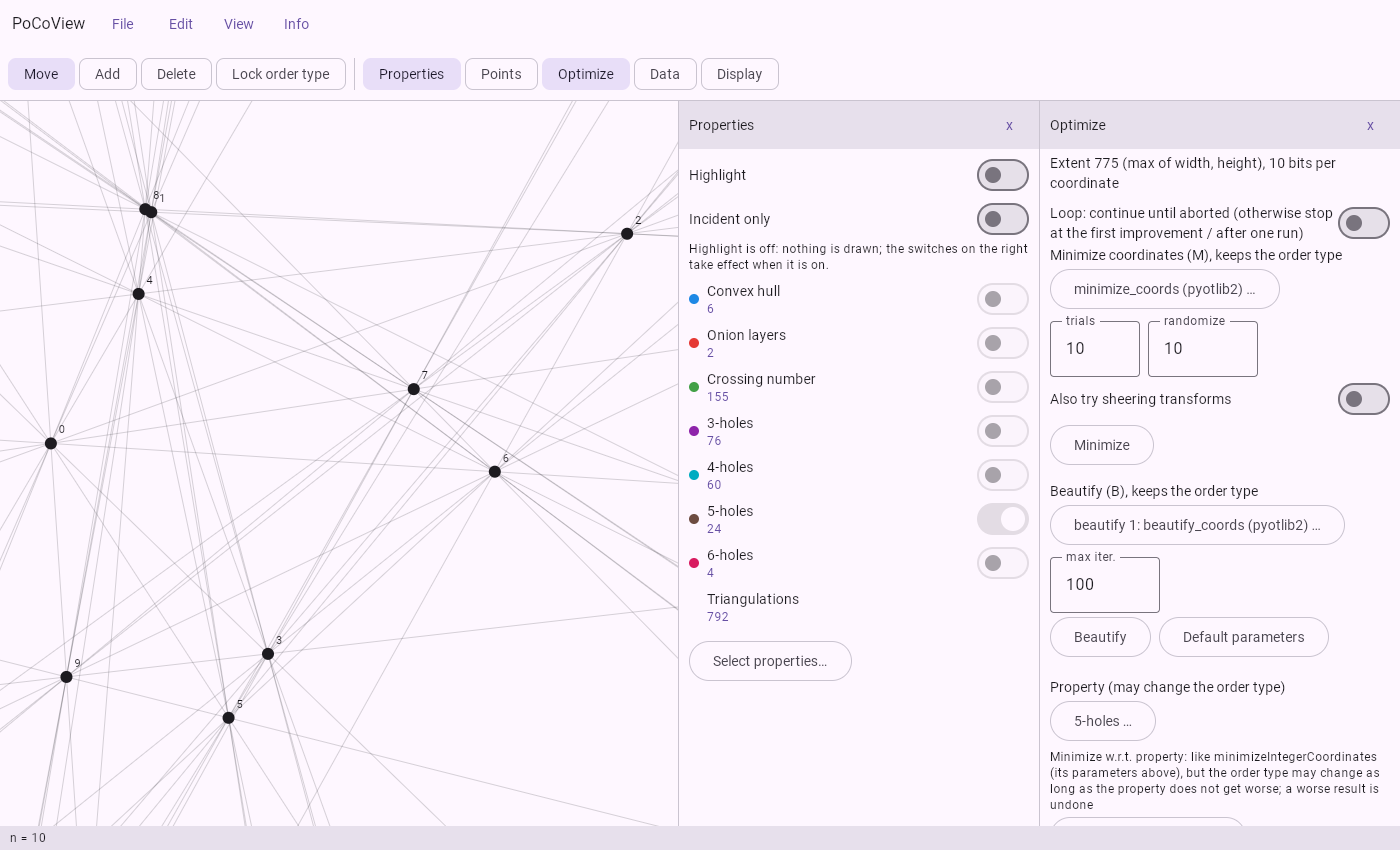
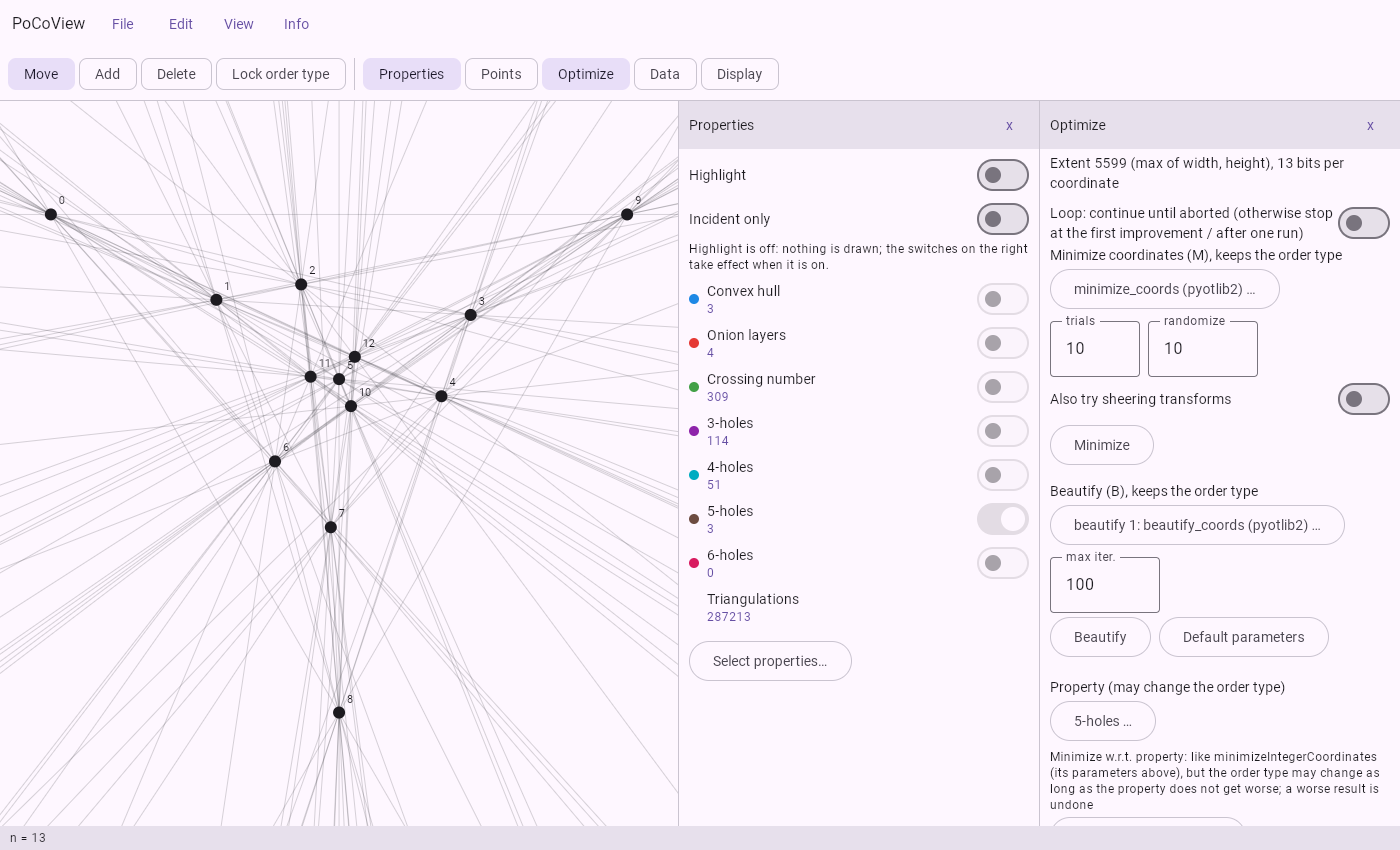
Start with Manfred's 13-point set

diff --git a/composeApp/src/commonMain/kotlin/org/bytefred/pocoview/ui/AppState.kt b/composeApp/src/commonMain/kotlin/org/bytefred/pocoview/ui/AppState.kt
@@ -291,7 +291,7 @@ class AppState(private val scope: CoroutineScope = CoroutineScope(SupervisorJob(
     private var dragUndoPending = false
 
     init {
-        setPoints(randomPointSet(10, 1000), recordUndo = false)
+        setPoints(START_POINTS, recordUndo = false)
         sets = listOf(points)
         requestFit()
     }
@@ -820,6 +820,12 @@ class AppState(private val scope: CoroutineScope = CoroutineScope(SupervisorJob(
         const val SEARCH_TITLE = "Searching for a better configuration"
         val DEFAULT_LINE_COLOR = Color(0xFF1C1B1F)
         const val DEFAULT_LINE_ALPHA = 0.18f
+        /** The set shown at start: a 13-point set found by Manfred. */
+        val START_POINTS = listOf(
+            Pt(160, 7359), Pt(1768, 6530), Pt(2592, 6679), Pt(4239, 6383), Pt(3955, 5593),
+            Pt(2960, 5759), Pt(2338, 4960), Pt(2880, 4320), Pt(2960, 2520), Pt(5759, 7359),
+            Pt(3076, 5497), Pt(2684, 5783), Pt(3113, 5976),
+        )
         val DEFAULT_SELECTED_COLOR = Color(0xFFFF9800)
         val DEFAULT_INCIDENT_LINE_COLOR = Color(0xFFE53935)
 

diff --git a/composeApp/src/jvmTest/kotlin/org/bytefred/pocoview/ui/AppStateTest.kt b/composeApp/src/jvmTest/kotlin/org/bytefred/pocoview/ui/AppStateTest.kt
@@ -325,4 +325,12 @@ class AppStateTest {
         assertEquals(AppState.DEFAULT_SELECTED_COLOR, s.selectedColor)
         assertEquals(6f, s.pointRadius)
     }
+
+    @Test
+    fun startsWithManfredsSet() {
+        val s = state()
+        assertEquals(AppState.START_POINTS, s.points)
+        assertEquals(13, s.points.size)
+        assertTrue(s.collinear.isEmpty())
+    }
 }
